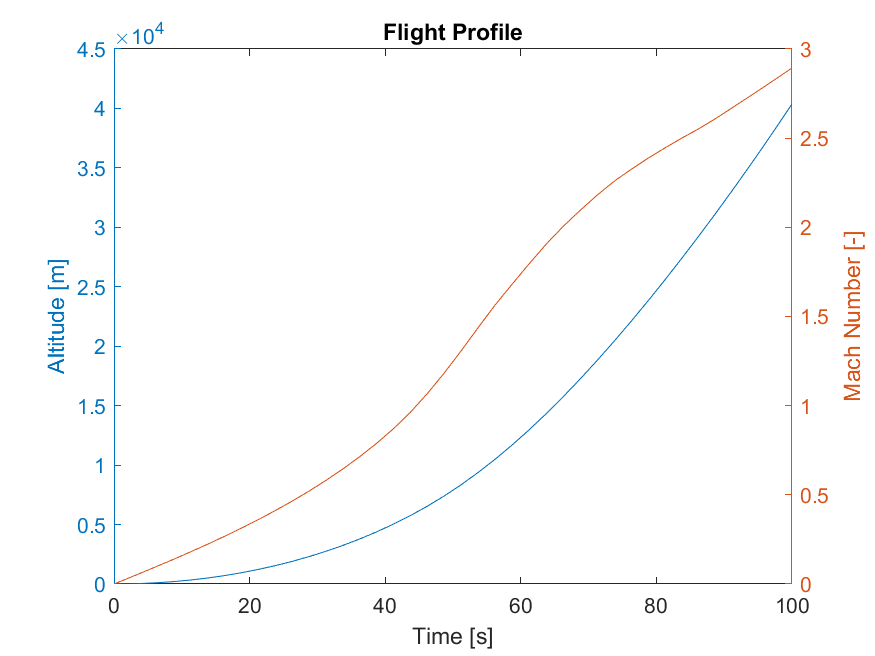
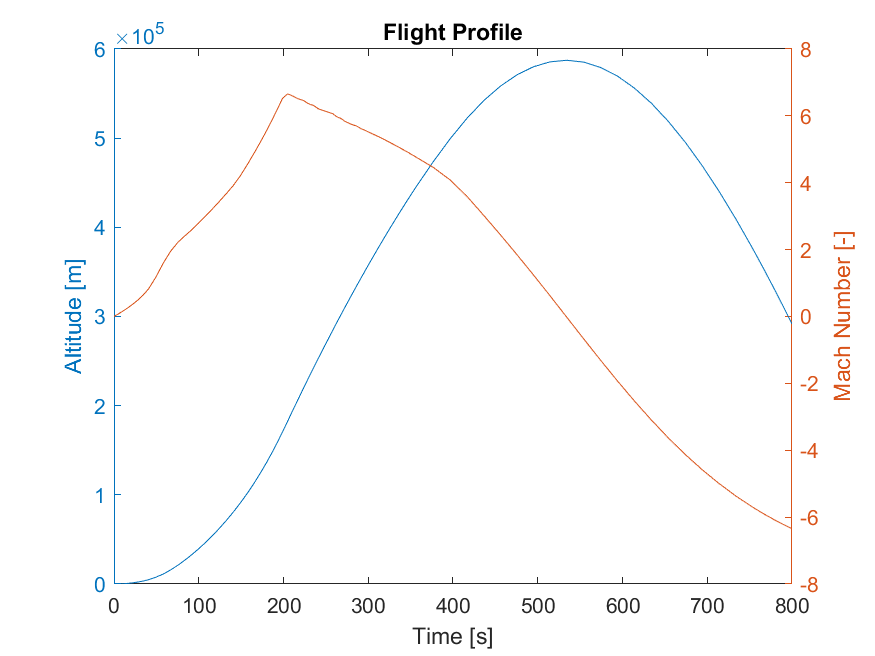
P2 Updates

diff --git a/Project 3/Problem2.m b/Project 3/Problem2.m
@@ -4,8 +4,8 @@ clear, clc, close all
 
 % Constants
 thrustAvg = 174000; %(N)
-tBurn     = 250;    %(s)
-tSim      = 100;    
+tBurn     = 200;    %(s)
+tSim      = 800;    
 mdot      = -1.154;  %(kg/s)
 area      = 0.5;    %(m^2)
 
@@ -19,17 +19,17 @@ c0        = 0;      % Initial speed of sound (m/s)
 rho0      = 0;      % Initial air density (kg/m^3)
 
 % ODE Solver
-[t, x] = ode45(@(t,x) flight(t, x, mdot), [0, tSim], [h0; v0; m0;]);
+[t, x] = ode45(@(t,x) flight(t, x, mdot, tBurn), [0, tSim], [h0; v0; m0;]);
 
 for i = 1:length(t)
-    [~, fd(i), rho(i), cd(i), c(i)] = flight(t(i), x(i,:), mdot);
+    [~, fd(i), rho(i), cd(i), c(i), T(i)] = flight(t(i), x(i,:), mdot, tBurn);
 end
-
 
 fd = fd';
 rho = rho';
 cd = cd';
 c = c';
+T = T';
 alt = x(:,1);
 vel = x(:,2);
 m   = x(:,3);
@@ -47,7 +47,22 @@ xlabel('Time [s]')
 title('Flight Profile')
 saveas(gcf, 'Figures/P2FlightProfile.png');
 
-function [dxdt, fd, rho, cd, c] = flight(t, x, mdot)
+figure; 
+plot(t, T, t, fd, t, T+fd);
+ylabel('Force [N]');
+xlabel('Time [s]')
+title('Body Force')
+saveas(gcf, 'Figures/P2BodyForces.png');
+
+figure;
+plot(t, m);
+ylabel('Mass [kg]');
+xlabel('Time [s]');
+title('Rocket Mass vs Time');
+saveas(gcf, 'Figures/P2Mass.png');
+
+
+function [dxdt, fd, rho, cd, c, T] = flight(t, x, mdot, tBurn)
     
     T = 17400;
     A = 0.5;
@@ -60,8 +75,14 @@ function [dxdt, fd, rho, cd, c] = flight(t, x, mdot)
     cd = cd_interp(v,c);
     fd = drag(rho,v,cd,A);
     
+    if t >= tBurn
+        dm = 0;
+        T = 0;
+    else 
+        dm = mdot;
+    end 
+    
     dh = x(2);
-    dm = mdot;
     dv = (T - fd) / m - 9.81;
     dxdt = [dh; dv; dm;];
  

diff --git a/Project 3/Problem3.m b/Project 3/Problem3.m
@@ -20,7 +20,7 @@ rho0      = 0;      % Initial air density (kg/m^3)
 th0       = 90;     % Initial body angle (deg)
 
 % ODE Solver
-[t, x] = ode45(@(t,x) flight(t, x, mdot), [0, tSim], [h0; v0; m0; x0;]);
+[t, x] = ode45(@(t,x) flight(t, x, mdot), [0, tSim], [h0; v0; m0; x0; th0;]);
 
 for i = 1:length(t)
     [~, fd(i), rho(i), cd(i), c(i)] = flight(t(i), x(i,:), mdot);
@@ -34,8 +34,8 @@ c    = c';
 alt  = x(:,1);
 vel  = x(:,2);
 m    = x(:,3);
-x    = x(:,4);
-% th   = x(:,5);
+hor  = x(:,4);
+th   = x(:,5);
 mach = vel./c;
 
 
@@ -54,7 +54,7 @@ function [dxdt, fd, rho, cd, c] = flight(t, x, mdot)
     
     T = 17400;
     A = 0.5;
-    th = 80;
+    th = 90;
     g = 9.81;
 
     h = x(1); 
@@ -66,12 +66,18 @@ function [dxdt, fd, rho, cd, c] = flight(t, x, mdot)
     cd = cd_interp(v,c);
     fd = drag(rho,v,cd,A);
     
+    count = 0;   
+    if h >= 20000 & count == 0;
+        th = 89.9;
+        count = 1; 
+    end 
+    
     dh = v*sind(th);
     dx = v*cosd(th);
     dm = mdot;
     dv = (T - fd) / m - g*sind(th);
-    dth = -(g*cosd(th))/v;
-    dxdt = [dh; dv; dm; dx;];
+    dth = -(g*cosd(th))/v; 
+    dxdt = [dh; dv; dm; dx; dth;];
  
 end 
 
